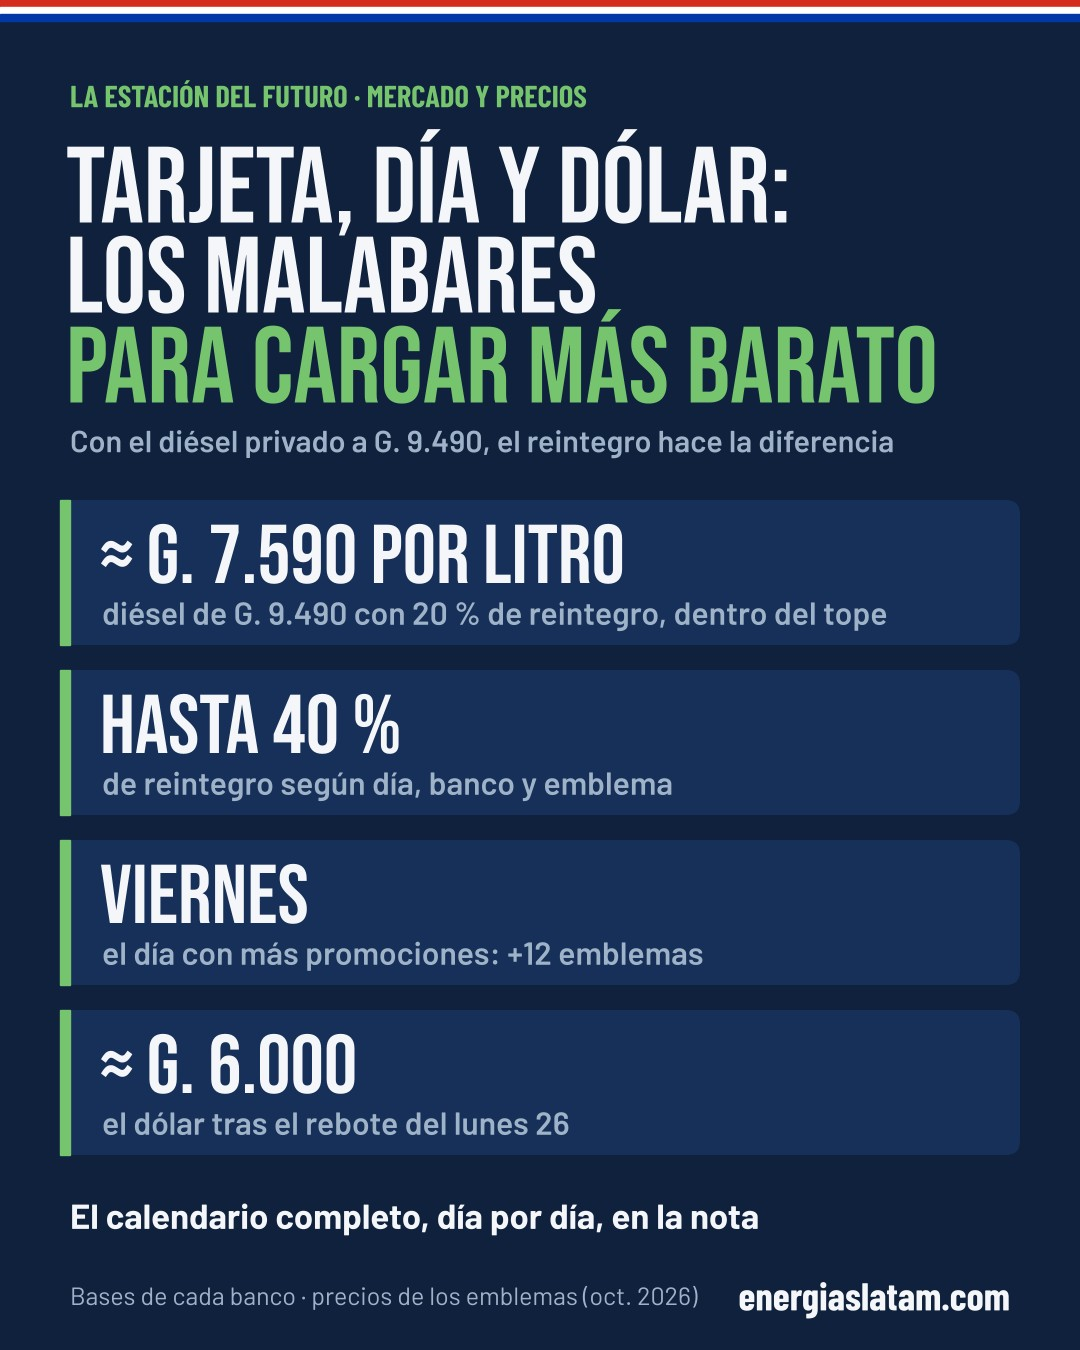
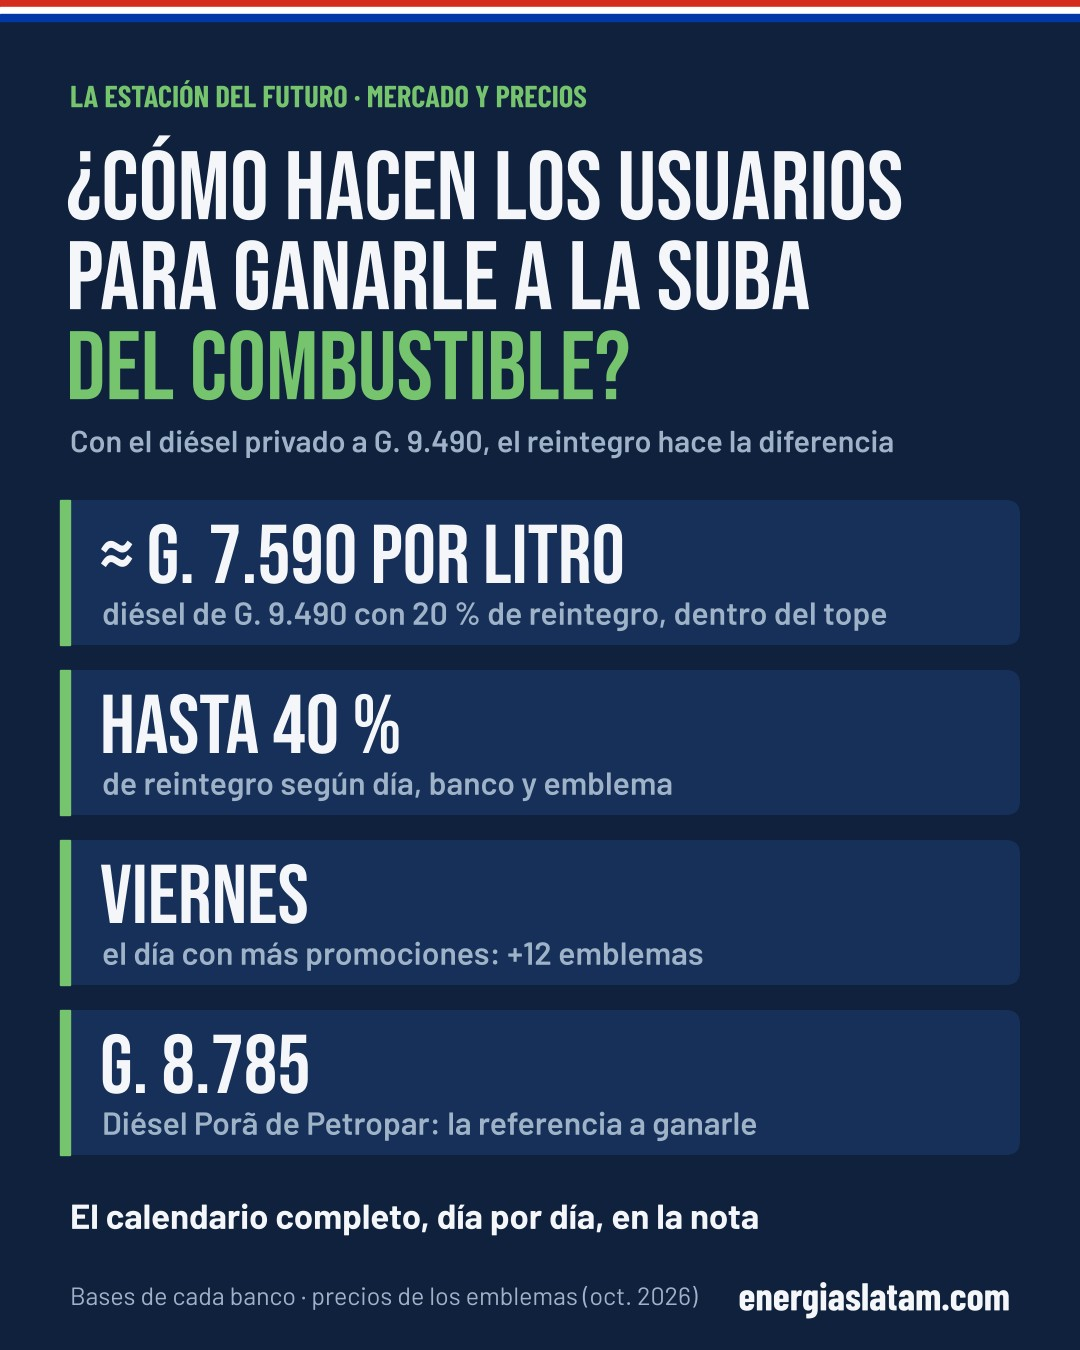
Borrador: sin bloque del dólar, nuevo título y placa IG
Claude-Session: https://claude.ai/code/session_01HHGRFrapr8AXyd2C4Baz1m

Changed region(s): [[0.0611, 0.0933, 0.8861, 0.3111], [0.0917, 0.7467, 0.7028, 0.84]]

diff --git a/notas/2026-10-27-descuentos-tarjetas-combustible.html b/notas/2026-10-27-descuentos-tarjetas-combustible.html
@@ -8,9 +8,6 @@
 <p>La letra chica importa: casi todas tienen límite de compra semanal o mensual, varias exigen pagar desde la app del emblema o con QR y muchas excluyen débito, tarjetas empresariales o prepagas.</p>
 <h2>Cuánto se ahorra de verdad</h2>
 <p>Un ejemplo: 50 litros de diésel común a G. 9.490 cuestan G. 474.500. Con un 20 % de reintegro y un límite de compra de G. 500.000, vuelven G. 94.900 y el litro termina saliendo unos G. 7.590, por debajo del Diésel Porã de Petropar. En el beneficio general de ueno, el nivel 5 devuelve 40 %, pero con un tope de compra de G. 150.000 por semana el reintegro llega a G. 60.000 y el litro de esos 50 queda en unos G. 8.290. Para quien carga mucho, el tope pesa más que el porcentaje.</p>
-<h2>El dólar, el otro factor</h2>
-<p>El combustible se compra afuera y se paga en dólares, por eso el tipo de cambio juega a favor o en contra de cada suba. Durante varias semanas, el dólar osciló cerca de G. 5.700 y llegó a su nivel más bajo del año; el lunes 26 rebotó y quedó cerca de G. 6.000. El presidente Santiago Peña descartó que el Banco Central intervenga para frenar la caída: "el mercado va a encontrar su punto de equilibrio", dijo. La encuesta de expectativas del BCP proyecta G. 5.905 para fin de año.</p>
-<p>Según Petropar, el diésel internacional cotiza en torno a US$ 1.273 por metro cúbico. A ese precio, cada G. 100 que se mueve el dólar cambia el costo del producto en unos G. 127 por litro, antes de impuestos, flete y margen. Un dólar más barato amortiguó parte de la suba internacional, pero no alcanzó para frenarla.</p>
-<div class="datos"><div><b>G. 9.490</b><span>diésel común en los emblemas privados tras la sexta suba; Petropar sigue en G. 8.785</span></div><div><b>Hasta 40 %</b><span>de reintegro con tarjeta, según el día, el banco y el emblema, siempre con topes</span></div><div><b>≈ G. 6.000</b><span>el dólar tras el rebote del lunes 26, después de semanas cerca de G. 5.700</span></div></div>
+<div class="datos"><div><b>G. 9.490</b><span>diésel común en los emblemas privados tras la sexta suba; Petropar sigue en G. 8.785</span></div><div><b>Hasta 40 %</b><span>de reintegro con tarjeta, según el día, el banco y el emblema, siempre con topes</span></div><div><b>Viernes</b><span>el día con más promociones, en más de 12 emblemas</span></div></div>
 <h2>Qué significa para la estación de servicio</h2>
 <p>El cliente ya no compara precios de tótem: compara el precio después del reintegro. Una estación que no está adherida al banco de ese día pierde la carga aunque tenga el mismo precio de lista. Conviene comunicar en la playa y en redes qué promociones tiene el emblema cada día, tener los POS y el QR funcionando y que los playeros sepan explicar la letra chica. Los picos de los días de reintegro también sirven para planificar stock, personal y ofertas de la tienda.</p>
